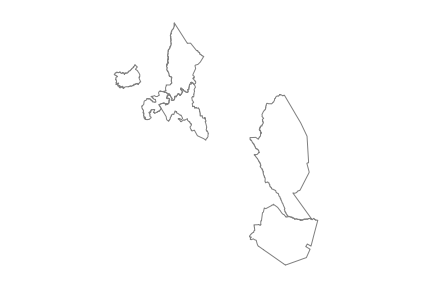
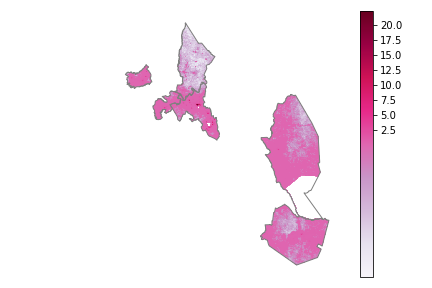
figures

diff --git a/src/figures.py b/src/figures.py
@@ -46,7 +46,7 @@ df_yearly = df.drop(['pol','nl','yearmonth'],axis=1).drop_duplicates().merge(agg
 gdf_yearly = gpd.GeoDataFrame(df_yearly, geometry=df_yearly['geometry'].apply(wkt.loads))
 
 # plot pop dens of 2015
-for y in ['2015']:
+for y in [2015]:
     data = gdf_yearly[gdf_yearly.year == y]
     for v in ['pop_dens','pol','nl']:
         vmin = data[[v]].min()[0]
